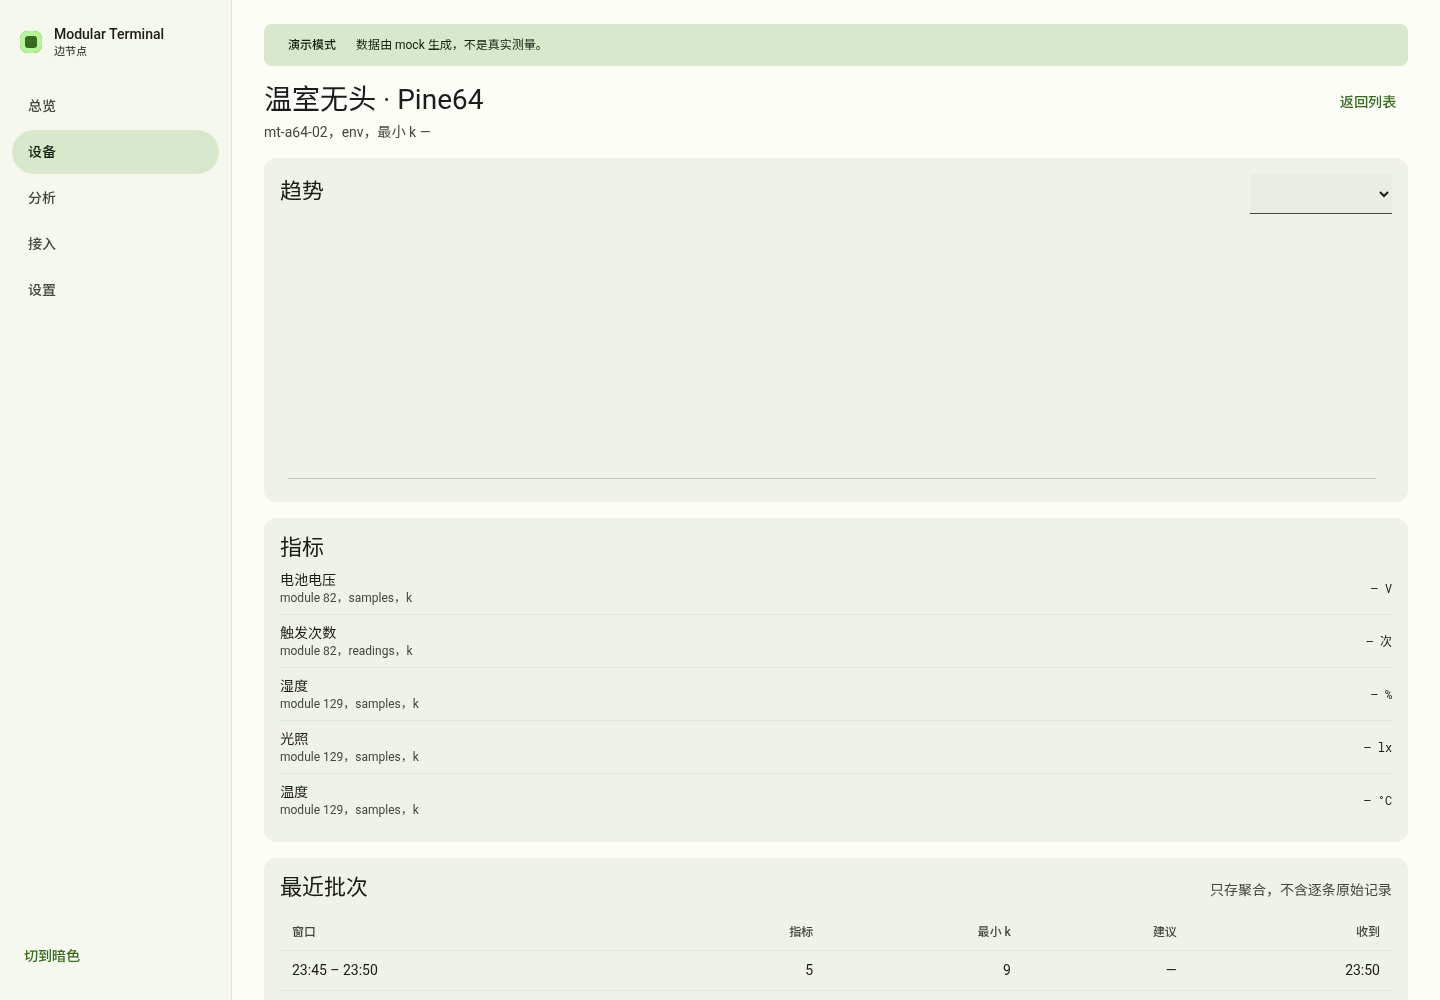
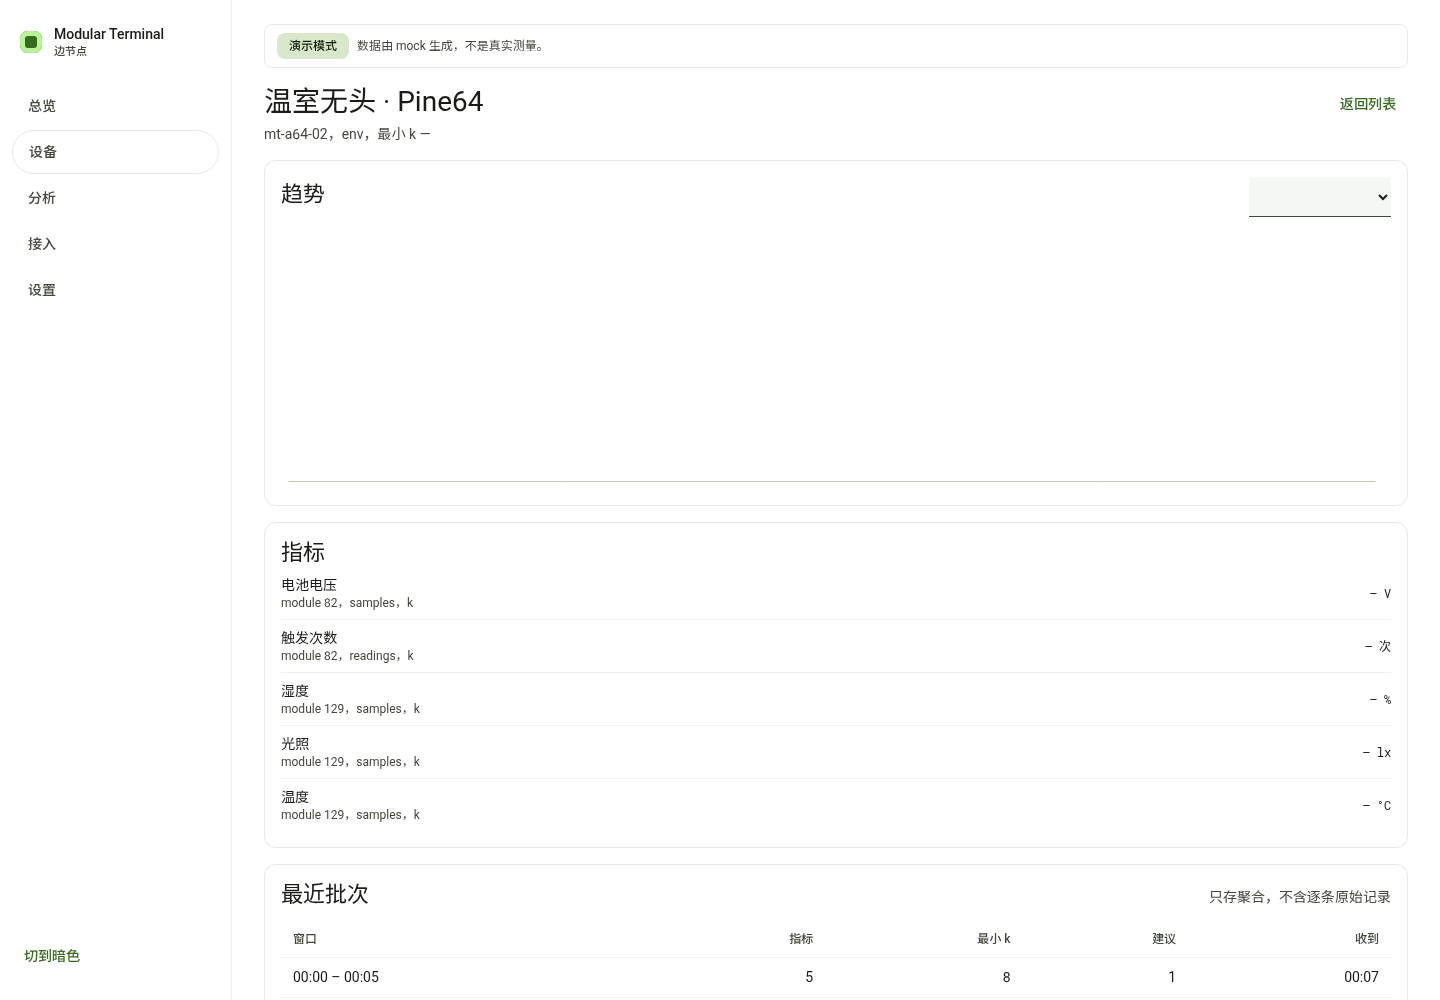
style(web): 亮色主题改为纯白底
- surface 系列 token 全改为白色，卡片白底 + 浅描边分层
- 演示横幅改白底，状态色留在 chip 上
- 流场画布改白底；粒子颜色随主题切换（白底深琥珀、暗底亮琥珀），
  混合模式改为普通 alpha，避免白底加色发白
- 截图按白底重新生成

验证：5 页冒烟通过；6 个视图 × 3 宽度 0 FAIL。

diff --git a/web/src/lib/flow.js b/web/src/lib/flow.js
@@ -9,15 +9,16 @@ const FS = `#version 300 es
 precision highp float;
 in float vAlpha;
 in float vWarm;
+uniform float uDark;
 out vec4 outColor;
 void main() {
   vec2 d = gl_PointCoord - 0.5;
   float r = length(d);
   if (r > 0.5) discard;
   float edge = smoothstep(0.5, 0.10, r);
-  // 琥珀为主，汇入环时偏白热；亮度整体抬高，深色底上才看得见
-  vec3 cold = vec3(0.62, 0.55, 0.40);
-  vec3 warm = vec3(1.0, 0.86, 0.55);
+  // 白底用深琥珀，暗底用亮琥珀；同一套粒子，两套主题都看得见
+  vec3 cold = mix(vec3(0.24, 0.15, 0.03), vec3(0.62, 0.55, 0.40), uDark);
+  vec3 warm = mix(vec3(0.56, 0.25, 0.00), vec3(1.0, 0.86, 0.55), uDark);
   vec3 c = mix(cold, warm, vWarm);
   outColor = vec4(c * edge, vAlpha * edge);
 }`;
@@ -32,6 +33,7 @@ uniform float uSpeed;
 uniform float uCull;
 uniform vec3 uEmitters;  // 每台终端是否在线
 uniform float uAlerts;
+uniform float uDark;
 out float vAlpha;
 out float vWarm;
 
@@ -62,9 +64,10 @@ void main() {
   gl_Position = uProj * view;
 
   float depth = clamp(1.0 - (-view.z - 1.6) / 4.5, 0.0, 1.0);
-  gl_PointSize = (2.4 + 4.6 * depth) * uEmitters[int(clamp(e, 0.0, 2.0))];
+  gl_PointSize = (3.0 + 5.4 * depth) * uEmitters[int(clamp(e, 0.0, 2.0))];
   vWarm = swirl * (0.55 + 0.45 * uAlerts);
-  vAlpha = (1.0 - dead) * em * (0.26 + 0.68 * depth) * smoothstep(0.0, 0.06, ph) * (1.0 - smoothstep(0.94, 1.0, ph));
+  vAlpha = (1.0 - dead) * em * (0.30 + 0.70 * depth) * smoothstep(0.0, 0.06, ph) * (1.0 - smoothstep(0.94, 1.0, ph));
+  vAlpha = min(1.0, vAlpha * mix(1.35, 1.0, uDark));
 }`;
 
 const RING_VS = `#version 300 es
@@ -83,8 +86,11 @@ void main() {
 const RING_FS = `#version 300 es
 precision highp float;
 in float vA;
+uniform float uDark;
 out vec4 outColor;
-void main() { outColor = vec4(1.0, 0.82, 0.46, vA); }`;
+void main() {
+  outColor = vec4(mix(vec3(0.52, 0.28, 0.02), vec3(1.0, 0.82, 0.46), uDark), vA);
+}`;
 
 const COUNT = 16000;
 
@@ -114,12 +120,14 @@ export function createFlow(canvas, opts = {}) {
     cull: gl.getUniformLocation(prog, "uCull"),
     emitters: gl.getUniformLocation(prog, "uEmitters"),
     alerts: gl.getUniformLocation(prog, "uAlerts"),
+    dark: gl.getUniformLocation(prog, "uDark"),
   };
   const rloc = {
     pos: gl.getAttribLocation(ringProg, "aPos"),
     proj: gl.getUniformLocation(ringProg, "uProj"),
     view: gl.getUniformLocation(ringProg, "uView"),
     pulse: gl.getUniformLocation(ringProg, "uPulse"),
+    dark: gl.getUniformLocation(ringProg, "uDark"),
   };
 
   const ring = new Float32Array(97 * 2);
@@ -163,7 +171,7 @@ export function createFlow(canvas, opts = {}) {
 
   gl.clearColor(0, 0, 0, 0);
   gl.enable(gl.BLEND);
-  gl.blendFunc(gl.SRC_ALPHA, gl.ONE);
+  gl.blendFunc(gl.SRC_ALPHA, gl.ONE_MINUS_SRC_ALPHA);
 
   const stop = animate((t) => {
     const a = resize();
@@ -182,6 +190,8 @@ export function createFlow(canvas, opts = {}) {
     gl.uniform1f(loc.cull, state.cull);
     gl.uniform1f(loc.alerts, state.alerts);
     gl.uniform3f(loc.emitters, ...state.emitters);
+    const dark = document.documentElement.dataset.theme === "dark" ? 1 : 0;
+    gl.uniform1f(loc.dark, dark);
     gl.drawArrays(gl.POINTS, 0, COUNT);
 
     gl.useProgram(ringProg);
@@ -191,6 +201,7 @@ export function createFlow(canvas, opts = {}) {
     gl.uniformMatrix4fv(rloc.proj, false, mvp);
     gl.uniformMatrix4fv(rloc.view, false, view);
     gl.uniform1f(rloc.pulse, 0.5 + 0.5 * Math.sin(t * 1.4) * (0.4 + state.alerts));
+    gl.uniform1f(rloc.dark, dark);
     gl.drawArrays(gl.LINE_STRIP, 0, 97);
     // 再画一圈稍大的同心环，模拟环的厚度（WebGL 的 lineWidth 不可靠）
     gl.uniform1f(rloc.pulse, 0.25 + 0.25 * Math.sin(t * 1.4));

diff --git a/web/src/styles/m3.css b/web/src/styles/m3.css
@@ -23,16 +23,18 @@
   --md-error-container: #ffdad6;
   --md-on-error-container: #410002;
 
-  --md-surface: #fbfdf6;
+  --md-surface: #ffffff;
+  --md-card-bg: #ffffff;
+  --md-card-border: #e8eae5;
   --md-on-surface: #1a1c18;
-  --md-surface-dim: #dcded4;
-  --md-surface-bright: #fbfdf6;
+  --md-surface-dim: #eef1ec;
+  --md-surface-bright: #ffffff;
   --md-surface-container-lowest: #ffffff;
-  --md-surface-container-low: #f5f8ef;
-  --md-surface-container: #eff2e9;
-  --md-surface-container-high: #e9ece2;
-  --md-surface-container-highest: #e3e6dc;
-  --md-surface-variant: #e1e4d5;
+  --md-surface-container-low: #ffffff;
+  --md-surface-container: #ffffff;
+  --md-surface-container-high: #f5f7f3;
+  --md-surface-container-highest: #eef1ec;
+  --md-surface-variant: #e9ece7;
   --md-on-surface-variant: #43483e;
   --md-outline: #74796d;
   --md-outline-variant: #c3c8bb;
@@ -118,6 +120,8 @@
 
   --md-surface: #11140e;
   --md-on-surface: #e3e3dc;
+  --md-card-bg: #1e201b;
+  --md-card-border: #2b2e28;
   --md-surface-dim: #11140e;
   --md-surface-bright: #373a33;
   --md-surface-container-lowest: #0c0f0a;
@@ -202,11 +206,10 @@ h3 {
 /* ---------------------------------------------------------------- 组件层 */
 
 .md-card {
-  /* M3 filled card：靠色调分层，不靠描边 */
-  background: var(--md-surface-container);
+  background: var(--md-card-bg);
   border-radius: var(--md-shape-md);
   padding: var(--space-4);
-  border: 0;
+  border: 1px solid var(--md-card-border);
 }
 
 .md-card--filled {

diff --git a/web/src/App.vue b/web/src/App.vue
@@ -137,8 +137,9 @@ function toggleTheme() {
   background: color-mix(in srgb, var(--md-on-surface) 8%, transparent);
 }
 .nav-item--active {
-  background: var(--md-secondary-container);
-  color: var(--md-on-secondary-container);
+  background: var(--md-card-bg);
+  border: 1px solid var(--md-card-border);
+  color: var(--md-on-surface-variant);
 }
 
 .theme-toggle {
@@ -158,8 +159,9 @@ function toggleTheme() {
   margin-bottom: var(--space-4);
   padding: var(--space-2) var(--space-3);
   border-radius: var(--md-shape-sm);
-  background: var(--md-secondary-container);
-  color: var(--md-on-secondary-container);
+  background: var(--md-card-bg);
+  border: 1px solid var(--md-card-border);
+  color: var(--md-on-surface-variant);
   font: var(--md-body-small);
 }
 

diff --git a/web/src/views/Overview.vue b/web/src/views/Overview.vue
@@ -183,8 +183,8 @@ const kpis = () => {
   height: 260px;
   display: block;
   border-radius: var(--md-shape-sm);
-  /* 流场是加色混合的粒子，配一块反色底才有对比（M3 的 inverse surface） */
-  background: var(--md-inverse-surface);
+  background: var(--md-card-bg);
+  border: 1px solid var(--md-card-border);
 }
 .flow-legend {
   position: absolute;
